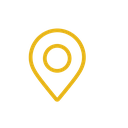
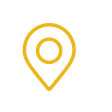
v-19.1

Changed region(s): [[0.1875, 0.1875, 0.6964, 0.8304], [0.2946, 0.3214, 0.5625, 0.5893]]

diff --git a/website_dsolution/static/src/css/theme.css b/website_dsolution/static/src/css/theme.css
@@ -460,7 +460,7 @@ html { scroll-behavior: smooth; }
 .ds-project a:hover { color: var(--ds-gold-dark); }
 
 /* Contact */
-.ds-contact-wrap { background: var(--ds-cream); }
+.ds-contact-wrap { padding: 0 0 76px; background: var(--ds-cream); }
 .ds-contact { width: min(1160px, calc(100% - 40px)); margin-inline: auto; display: grid; grid-template-columns: .85fr 1.15fr; gap: 34px; padding: 40px; border-radius: 32px; background: var(--ds-navy); color: #fff; box-shadow: 0 30px 70px rgba(0,33,71,.22); }
 .ds-contact-info { margin-top: 30px; display: grid; gap: 14px; }
 .ds-contact-info a { color: rgba(255,255,255,.82); }
@@ -558,7 +558,7 @@ html { scroll-behavior: smooth; }
     .ds-stat:last-child { border-bottom: 0; }
     .ds-portfolio-grid { grid-template-columns: 1fr; }
     .ds-contact { padding: 28px 18px; border-radius: 22px; gap: 22px; }
-
+    .ds-contact-wrap { padding-bottom: 52px; }
     .ds-field { padding-inline: 0; }
     .ds-submit { padding-inline: 0; }
     .ds-footer { padding-top: 46px; }
@@ -1526,10 +1526,10 @@ video.js_ds_hero_video {
 
 
 /* ==========================================================
-   v0.19 — Odoo-native editable media, ecosystem logos, stats and contact
+   v0.19.1 — verified visible overrides
    ========================================================== */
 
-/* Stats: same visual language as the original D-Solution icons. */
+/* Stats */
 .ds-stat-head {
     display: flex;
     align-items: center;
@@ -1541,64 +1541,86 @@ video.js_ds_hero_video {
     flex: 0 0 42px;
     object-fit: contain;
 }
-body.editor_enable .ds-stat-icon.o_we_custom_image {
-    cursor: pointer !important;
-    outline: 1px dashed rgba(212,175,55,.45);
-    outline-offset: 4px;
-}
 
-/* Ecosystem: the text stays beside a true image slot for each brand logo. */
+/* Ecosystem: real logo slot, text remains beside it. */
+.ds-tool {
+    display: inline-flex;
+    align-items: center;
+    gap: 10px;
+}
 .ds-tool-logo-slot {
-    position: relative;
-    width: 30px;
-    height: 30px;
-    flex: 0 0 30px;
+    width: 32px;
+    height: 32px;
+    flex: 0 0 32px;
     display: inline-flex;
     align-items: center;
     justify-content: center;
+    border: 1px solid rgba(255,255,255,.20);
+    border-radius: 9px;
+    background: rgba(255,255,255,.035);
 }
 .ds-tool-logo {
+    width: 26px;
+    height: 26px;
     display: block;
-    width: 30px;
-    height: 30px;
     object-fit: contain;
 }
-.ds-tool-label { white-space: nowrap; }
-
-/* Only the first sequence is editable; runtime JS mirrors it to the marquee clones. */
-body.editor_enable .ds-marquee-track { animation: none !important; transform: none !important; flex-wrap: wrap; width: 100%; }
-body.editor_enable .ds-tool-clone { display: none !important; }
-body.editor_enable .ds-tool-logo-slot:has(.js_ds_tool_logo_source) {
-    border: 1px dashed rgba(212,175,55,.75);
-    border-radius: 7px;
-    background: rgba(255,255,255,.04);
+.ds-tool-label {
+    white-space: nowrap;
 }
-body.editor_enable .js_ds_tool_logo_source { cursor: pointer !important; }
 
-/* Contact: PNG icons are normal Odoo editable images. */
+/* In editor: stop movement and expose only the editable source copies. */
+body.editor_enable .ds-marquee-track {
+    animation: none !important;
+    transform: none !important;
+    width: 100% !important;
+    flex-wrap: wrap;
+}
+body.editor_enable .ds-tool-clone {
+    display: none !important;
+}
+body.editor_enable .js_ds_tool_logo_source {
+    cursor: pointer !important;
+}
+body.editor_enable .ds-tool-logo-slot:has(.js_ds_tool_logo_source) {
+    border: 1px dashed #D9B22B;
+}
+
+/* Contact native spacer. It has no visible line; only space. */
+.ds-contact-top-spacer > hr {
+    display: none !important;
+}
+body:not(.editor_enable) .ds-contact-top-spacer {
+    min-height: 0;
+}
 .ds-contact-info a {
     display: flex;
     align-items: center;
     gap: 12px;
 }
 .ds-contact-icon {
-    width: 24px;
-    height: 24px;
-    flex: 0 0 24px;
+    width: 25px;
+    height: 25px;
+    flex: 0 0 25px;
     object-fit: contain;
 }
+
+/* Make editable media obvious only while editing. */
+body.editor_enable .ds-stat-icon.o_we_custom_image,
 body.editor_enable .ds-contact-icon.o_we_custom_image {
     cursor: pointer !important;
-    outline: 1px dashed rgba(212,175,55,.55);
+    outline: 1px dashed rgba(217,178,43,.60);
     outline-offset: 3px;
 }
 
-/* Keep the Hero immediately usable while uploaded/CDN video loads lazily. */
-.ds-hero-video[poster] { background: #00162f center/cover no-repeat; }
+/* Hero: poster appears immediately. Video URL/Binary is attached later by JS. */
+video.js_ds_hero_video {
+    background: #00162f;
+}
 
 @media (max-width: 760px) {
-    .ds-stat-head { gap: 14px; }
     .ds-stat-icon { width: 36px; height: 36px; flex-basis: 36px; }
-    .ds-tool-logo-slot, .ds-tool-logo { width: 28px; height: 28px; }
-    .ds-tool-logo-slot { flex-basis: 28px; }
+    .ds-tool-logo-slot { width: 30px; height: 30px; flex-basis: 30px; }
+    .ds-tool-logo { width: 24px; height: 24px; }
+    .ds-contact-icon { width: 23px; height: 23px; flex-basis: 23px; }
 }

diff --git a/website_dsolution/static/src/js/theme.js b/website_dsolution/static/src/js/theme.js
@@ -52,14 +52,12 @@
     }
 
 
-
-    // v0.19 — Ecosystem logo slots.
-    // Only the first copy is edited in Odoo. Public marquee clones mirror that source.
+    // v0.19.1 — Ecosystem logo sync.
+    // Edit the first logo in Odoo; the moving duplicate mirrors it automatically.
     function initDsolutionToolLogos() {
         const sources = document.querySelectorAll(".js_ds_tool_logo_source[data-tool-key]");
-        if (!sources.length) {
-            return;
-        }
+        if (!sources.length) return;
+
         const sync = (source) => {
             const key = source.dataset.toolKey;
             if (!key) return;
@@ -69,6 +67,7 @@
                 else clone.removeAttribute("srcset");
             });
         };
+
         sources.forEach((source) => {
             sync(source);
             const observer = new MutationObserver(() => sync(source));

diff --git a/website_dsolution/__manifest__.py b/website_dsolution/__manifest__.py
@@ -7,17 +7,19 @@ Rebuilds the current D-Solution visual identity inside Odoo Website and
 connects the contact form directly to CRM opportunities.
 """,
     "category": "Website/Theme",
-    "version": "19.5.1.0.21",
+    "version": "19.5.1.0.22",
     "author": "D-Solution",
     "website": "https://d-solution.org",
     "license": "LGPL-3",
     "depends": ["website", "website_crm"],
     "data": [
+        "data/media.xml",
         "views/templates.xml",
         "views/snippets.xml",
         "views/res_config_settings_views.xml",
         "data/homepage.xml",
         "data/pages.xml",
+        "views/v019_overrides.xml",
     ],
     "assets": {
         "web.assets_frontend": [

diff --git a/website_dsolution/README.md b/website_dsolution/README.md
@@ -257,14 +257,20 @@ Esta versión fue construida contra la estructura documentada oficialmente para 
   hasta adaptarlas a la API exacta de la build instalada.
 - No modifica modelos ni base de datos respecto a v0.18: actualización normal.
 
+## v0.19.1 — corrección completa de los cambios visuales
 
-## v0.19 — medios editables y ajustes visuales
-- Estadísticas: sustituye los iconos genéricos por Rocket, Folder, Globe2 y BarChart3 en SVG local dorado, editables como imagen desde Odoo.
-- Ecosistema: sustituye los cuadrados con letras por espacios de imagen para logos reales; el texto permanece al lado. En el editor solo se muestra una copia editable por herramienta y el JS replica el logo a las copias del marquee público.
-- Contacto: añade PNG dorados editables para email, WhatsApp y ubicación.
-- Contacto: usa clases de espaciado nativas de Odoo (`pt48 pb64`) para que exista espacio editable arriba y abajo del bloque, sin padding fijo del tema.
-- Hero: vuelve a habilitar "subir MP4" directamente en Ajustes de Sitio Web. El campo ya usa `attachment=True`; el vídeo se solicita con `preload=none` y carga diferida después del contenido principal.
-- Hero: la URL CDN sigue disponible y, si se configura, tiene prioridad sobre el MP4 subido.
-- Hero: el poster/imagen sigue mostrándose antes del vídeo.
-- No reactiva el bundle experimental del editor que causó errores en Odoo 19.5a1; todo usa frontend normal y controles estándar de Odoo.
-- No añade nuevos campos Python respecto a v0.18.1: actualización normal.
+Esta versión rehace los cambios de v0.19 mediante vistas heredadas separadas para
+que se apliquen explícitamente sobre los templates actuales de D-Solution.
+
+Cambios verificables:
+- Estadísticas: Rocket, Folder, Globe y BarChart dorados como medios Odoo.
+- Ecosistema: los antiguos cuadrados con letras pasan a ser espacios reales para logos;
+  el texto sigue a la derecha. Los logos fuente son imágenes Odoo reemplazables.
+- Contacto: iconos PNG dorados para email, WhatsApp y ubicación, registrados como medios Odoo.
+- Contacto: nuevo bloque nativo `s_hr` sin línea, usado como espacio superior editable.
+- Hero: vuelve el campo para subir MP4 directamente; la URL/CDN sigue teniendo prioridad.
+  El vídeo no lleva `src` en el HTML inicial: el poster y el contenido cargan primero.
+- No se reactiva el editor JS experimental de v0.17 que causó errores de compatibilidad.
+
+La documentación oficial de Odoo recomienda registrar imágenes como `ir.attachment`
+para que estén disponibles y funcionen mejor dentro del Website Builder.
